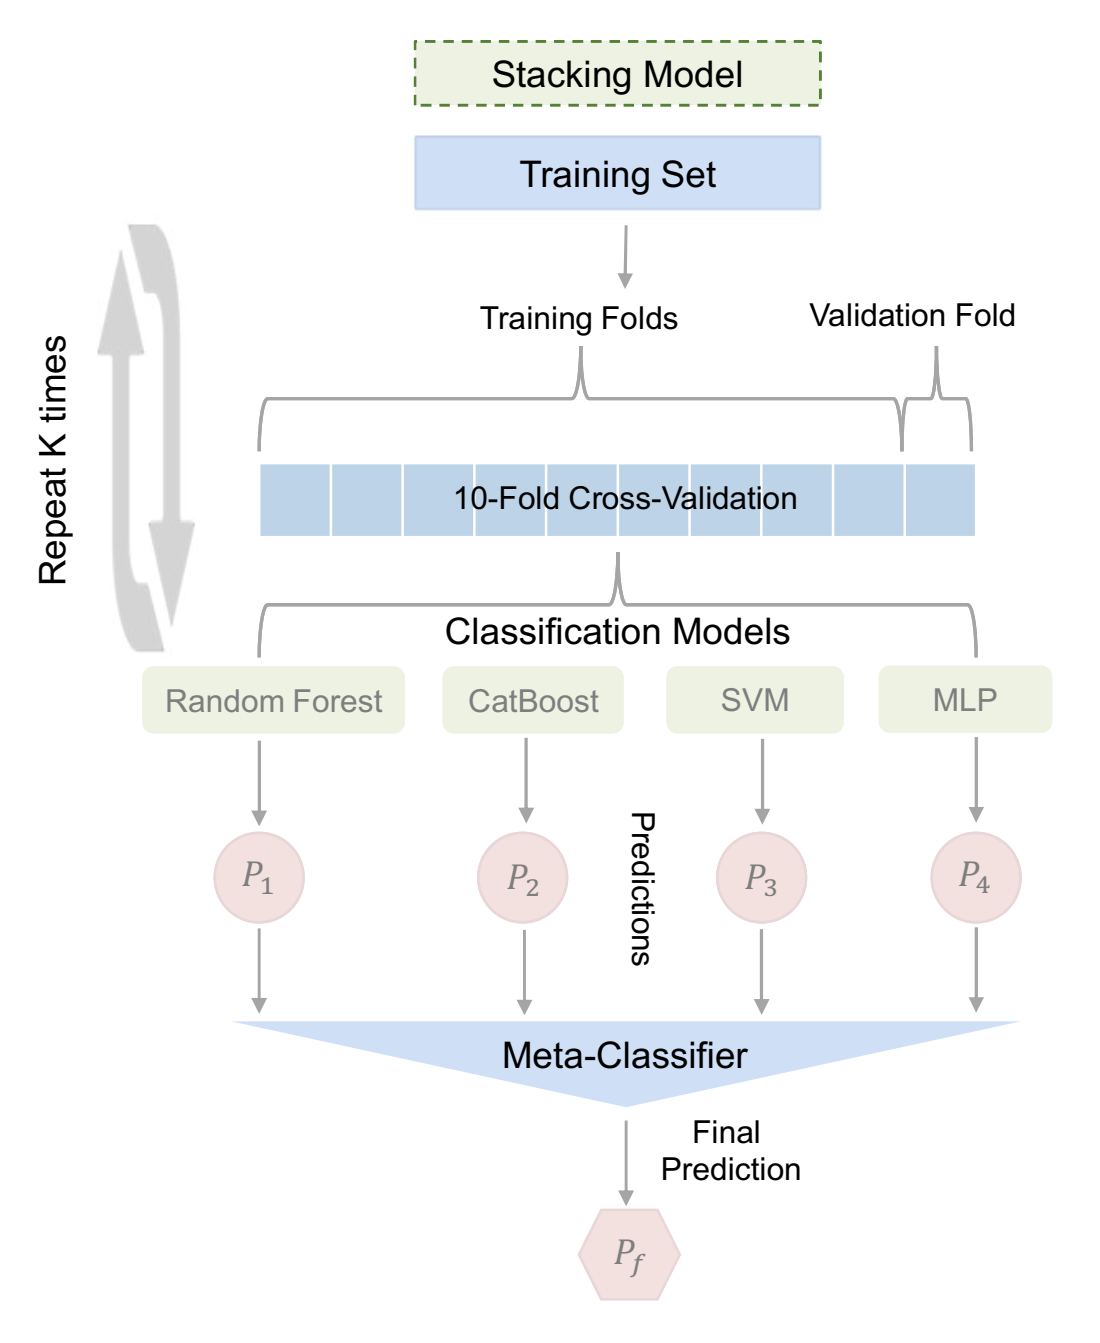
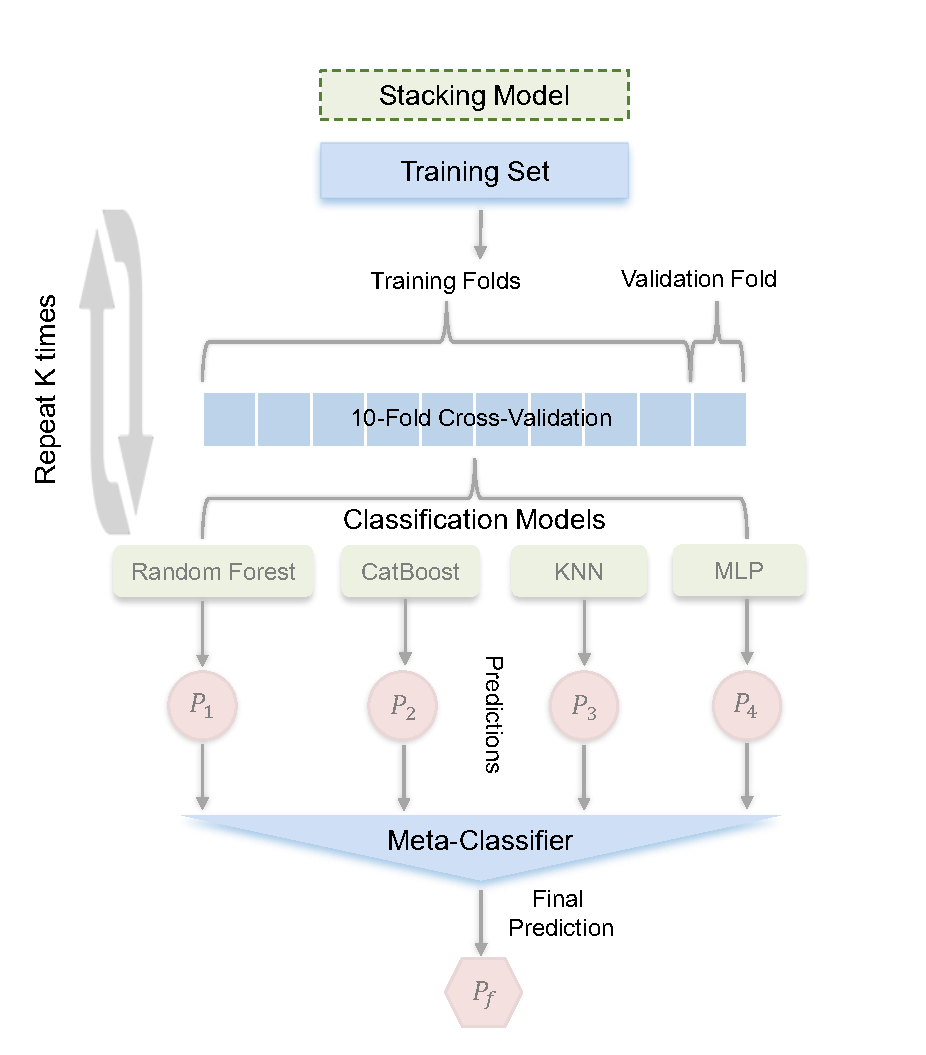
0318

Changed region(s): [[0.0907, 0.0303, 0.9676, 1.0], [0.0302, 0.2427, 0.0605, 0.455]]

diff --git a/streamlit_app.py b/streamlit_app.py
@@ -15,100 +15,148 @@ model, scaler = load_models()
 
 # Sidebar
 with st.sidebar:
+
+    st.markdown("""
+        <style>
+            /* 调整导航标题样式 */
+            .stTitle {
+                font-size: 1.8em !important;
+                margin-bottom: 25px !important;
+                color: #2c3e50 !important;
+            }
+            
+            /* 单选框容器样式 */
+            div[role="radiogroup"] {
+                gap: 15px;
+            }
+            
+            /* 单选框选项样式 */
+            .stRadio > label {
+                font-size: 1.1em !important;
+                padding: 10px 15px !important;
+                border-radius: 8px !important;
+                transition: all 0.3s ease !important;
+            }
+            
+            /* 鼠标悬停效果 */
+            .stRadio > label:hover {
+                background-color: #f5f6fa !important;
+                transform: translateX(5px);
+            }
+            
+            /* 选中状态样式 */
+            .stRadio > label[data-baseweb="radio"]:has(input:checked) {
+                background-color: #3498db !important;
+                color: white !important;
+                font-weight: 500 !important;
+            }
+        </style>
+        """, unsafe_allow_html=True)
+
     st.title("Navigation")
     page = st.radio("Page Selection",  
-                   ["App Introduction", 
-                    "Model Prediction", 
-                    "User Guide"],
-                   label_visibility="collapsed")  
-
-    st.markdown("---")
-    st.markdown("**About the Study**")
-    st.markdown("""
-    This study aims to integrate a series of physical records, biochemical tests, 
-                imaging tests and other clinical examination results during pregnancy, 
-                and on the basis of mining the key influencing factors of macrosomia, 
-                combine multiple machine learning and deep learning models, 
-                and introduce the Ensemble Learning (EL) method to establish a more objective and comprehensive, 
-                accurate and efficient prediction model of macrosomia, 
-                and overcome the low model accuracy of existing research methods.
+                   ["Introduction", 
+                    "Prediction Platform"],
+                   label_visibility="collapsed") 
     """)
+
+      # 添加间隔装饰线
+    st.markdown("---")
+    
+    # 添加辅助说明文字
+    st.markdown("<div style='font-size:0.9em; color:#7f8c8d; margin-top:30px;'></div>", 
+                unsafe_allow_html=True)
 
 # Page routing
-if page == "App Introduction":
-    st.title("Ensemble Learning-based Risk Prediction of Macrosomia Occurrence Study")
-    st.markdown("### Research Background")
+if page == "Introduction":
+    st.title("Ensemble Learning-Based Risk Prediction of Macrosomia Occurrence Study")
+    st.markdown("###About the Study")
     st.markdown("""
-        Macrosomia is one of the most common complications of pregnancy. In clinical practice, 
-        macrosomia is typically defined as a birth weight of 4000 grams or more, regardless of gestational age.
-        As a pregnancy complication, macrosomia poses significant health and life threats to both the mother and the fetus. 
-        
-        \n
-         
-        To date, the accurate diagnosis of macrosomia still relies primarily on the measurement of the infant's weight after birth. 
-        Techniques such as two-dimensional ultrasound, three-dimensional ultrasound, and magnetic resonance imaging (MRI) 
-        have limitations in accurately estimating fetal weight. Thus, effectively utilizing existing maternal examination 
-        results to accurately predict the probability of macrosomia is crucial for improving pregnancy outcomes and 
-        safeguarding the health of both mother and fetus.
+        Macrosomia, one of the most prevalent pregnancy complications, is clinically defined as neonatal birth weight ≥4000 grams irrespective of gestational age. This condition poses substantial health risks to both mothers and fetuses. 
+        The effective utilization of routine prenatal examination data for accurate macrosomia prediction holds critical significance in optimizing pregnancy outcomes and ensuring maternal-fetal health. \n
 
-        
+        This study aims to systematically integrate diverse prenatal parameters, including maternal physical examination records, biochemical test results, and ultrasound findings. Through comprehensive data mining, 
+        we intend to identify potential risk factors for macrosomia and develop an advanced prediction model by combining multiple machine learning and deep learning approaches with ensemble learning methodology. 
+        The proposed model seeks to address current limitations in prediction accuracy and model generalizability observed in existing research, ultimately establishing a more objective, comprehensive, and clinically applicable decision-support tool for macrosomia management.
+
     """)
     
-    st.markdown("### Model Architecture")
-    # st.markdown(""" """)
+    st.markdown("### Stacking Model to Predict Macrosomia Occurrence")
+    st.markdown(""" In this study, a Stacking Ensemble Model was designed to show superior performance in the task of macrosomia occurrence risk prediction. The 10-fold cross-validation results showed that the Accuracy of the model was **0.804**, the Recall was **0.813**, 
+    and the AUC was **0.891**. The following is the architecture diagram of the Stacking Ensemble Model, where four different base models were integrated in the base model layer, namely, CatBoost, RF, MLP, and KNN models. model, MLP model and KNN model are integrated, 
+    and each base model is independently parameterized by Bayesian optimization in the early stage to ensure that each base model performs optimally; the logistic regression model is chosen as the metamodel in the metamodel layer, 
+    and the probabilistic predictions of the base learners are combined to form the input features of the meta-model.""")
 
 
-    img = Image.open('Stacking.png')  
-    st.image(img, caption='Stacking Ensemble Model Structure', width=400)
-    
+    # img = Image.open('Stacking.png')  
+    # st.image(img, caption='Stacking Ensemble Model Architecture', width=350)
 
-elif page == "Model Prediction":
-    st.title("Risk Prediction Interface")
+    img = Image.open('Stacking.png')
+    st.markdown("""
+    <style>
+    .img-container {
+        display: flex;
+        justify-content: center;
+        padding: 20px 0;
+    }
+    </style>
+    """, unsafe_allow_html=True)
+
+    with st.container():
+        st.markdown('<div class="img-container">', unsafe_allow_html=True)
+        st.image(img, 
+                caption='Stacking Ensemble Model Architecture', 
+                width=350,
+                use_column_width='auto')  # 保持自动宽度响应
+        st.markdown('</div>', unsafe_allow_html=True)
+
+    st.markdown("### Introduction to the 14 input model predictors")
+    st.markdown(""" 
+    | **Maternal Characteristics** | **Metabolic and Immunologic Indicators**       | **Fetal Ultrasound**       |
+    |-------------------------------|----------------------------------------|----------------------------------------|
+    | BMI                           | Thyroid Peroxidase Antibodies (1-20w) | Placenta Thickness (25-32w)       |
+    | Pregnancy Week                | Anti-thyroid Peroxidase Antibodies(1-20w)  | Abdominal Circumference (25-32w)  |
+    | Fasting Glucose               | Max Intensity of Urine Glucose (1-32w)  | Biparietal Diameter (25-32w)         |
+    | Pregnant Woman's Parity       | Free FT4 (1-20w)                      | Femur Length (25-32w)                  |
+    |                               |                                        | Fetal Position (25-32w)               |
+    |                               |                                        | Baby Gender                           |
+    """)
+    st.markdown(""" The first eight characteristics in the table are core continuous predictors and the last six are core subtype predictors. 
+    The system consists of three dimensions: maternal characteristics, metabolic and immunologic indicators, and fetal ultrasound.""")
+
+
+elif page == "Prediction Platform":
+    st.title("Interface of Risk Prediction for Macrosomia Occurrence")
     
     # Create input columns
-    col1, col2 = st.columns(2)
+    col1, col2, col3 = st.columns(3)
 
-    feature_mapping = {
-        "BMI": "BMI",
-        "怀孕孕周": "Gestational Weeks",
-        "空腹葡萄糖": "Fasting Glucose (mmol/L)",
-        "25-32周婴儿胎盘厚": "Placental Thickness (mm)",
-        "25-32周婴儿腹围": "Abdominal Circumference (mm)",
-        "10-20周游离FT4": "Free FT4 (pmol/L)",
-        "25-32周婴儿双顶径": "Biparietal Diameter (mm)",
-        "25-32周婴儿股骨长": "Femur Length (mm)",
-        "婴儿性别": "Fetal Gender",
-        "孕妇产次": "Parity",
-        "25-32周婴儿胎位": "Fetal Position",
-        "1-20周甲状腺过氧化物酶抗体": "TPOAb (IU/mL)",
-        "1-20周抗甲状腺过氧化物酶抗体": "Anti-TPO (IU/mL)",
-        "1-32周尿葡萄糖最大阳性强度": "Urine Glucose"
-    }
-
-    # Continuous features: Using sliders for better UI
     with col1:
-        st.header("Continuous Features")
+        st.header("Maternal Characteristics")
 
         bmi = st.number_input("BMI", 15.0, 40.0, 25.0)
-        gestational_weeks = st.number_input("Gestational Weeks", 20, 42, 32)
+        gestational_weeks = st.number_input("Pregnancy Week", 20, 42, 30)
         fasting_glucose = st.number_input("Fasting Glucose (mmol/L)", 3.0, 10.0, 5.0)
-        placental_thickness = st.number_input("Placental Thickness (mm)", 10.0, 50.0, 25.0)
-        abdominal_circumference = st.number_input("Abdominal Circumference (mm)", 200.0, 400.0, 300.0)
-        ft4 = st.number_input("Free FT4 (pmol/L)", 5.0, 20.0, 12.0)
-        biparietal_diameter = st.number_input("Biparietal Diameter (mm)", 100.0, 500.0, 300.0)
-        femur_length = st.number_input("Femur Length (mm)", 100.0, 500.0, 300.0)
-
-# 分类变量
+        parity = st.selectbox("Pregnant Woman's Parity", [0, 1, 2, 3], index=0)
         
     with col2:
-        st.header("Categorical Features")
+        st.header("Metabolic and Immunologic Indicators")
+
+        TPOAb = st.selectbox("Thyroid Peroxidase Antibodies", ["Negative", "Positive"], index=0)
+        anti_tpo = st.selectbox("Anti-thyroid Peroxidase Antibodies", ["Negative", "Positive"], index=0)
+        urine_glucose = st.selectbox("Max Intensity of Urine Glucose", ["Negative", "+", "++", "+++", "++++"], index=0)
+        ft4 = st.number_input("Free FT4 (pmol/L)", 5.0, 20.0, 12.0)
         
-        gender = st.selectbox("Fetal Gender", ["Male", "Female"], index=0)
-        parity = st.selectbox("Parity", [0, 1, 2, 3], index=0)
+    
+    with col3:
+        st.header("Fetal Ultrasound")
+        placental_thickness = st.number_input("Placental Thickness (mm)", 10.0, 50.0, 25.0)
+        abdominal_circumference = st.number_input("Abdominal Circumference (mm)", 200.0, 400.0, 300.0)
+        biparietal_diameter = st.number_input("Biparietal Diameter (mm)", 100.0, 500.0, 300.0)
+        femur_length = st.number_input("Femur Length (mm)", 100.0, 500.0, 300.0)
         fetal_position = st.selectbox("Fetal Position", ["Cephalic", "Non-Cephalic"], index=0)
-        TPOAb = st.selectbox("TPOAb (IU/mL)", ["Negative", "Positive"], index=0)
-        anti_tpo = st.selectbox("Anti-TPO (IU/mL)", ["Negative", "Positive"], index=0)
-        urine_glucose = st.selectbox("Urine Glucose", ["Negative", "+", "++", "+++", "++++"], index=0)
+        gender = st.selectbox("Baby Gender", ["Male", "Female"], index=0)
+        
     
     gender_map = {"Male": 0, "Female": 1}
     fetal_position_map = {"Cephalic": 0, "Non-Cephalic": 1}
@@ -185,36 +233,15 @@ elif page == "Model Prediction":
                 
             st.markdown("---")
             if risk_prob > 0.7:
-                st.error("🚨 High Risk: Recommend clinical consultation and further monitoring. Further tests such as XYZ may be required.")
+                st.error("🚨 High Risk: Recommend clinical consultation and further monitoring.")
             elif risk_prob > 0.4:
-                st.warning("⚠ Moderate Risk: Suggest increased monitoring frequency, and consider additional tests like ABC.")
+                st.warning("⚠ Moderate Risk: Suggest increased monitoring frequency, and consider additional clinical examinations.")
             else:
                 st.success("✅ Low Risk: Maintain routine prenatal care. Regular check-ups are recommended.")
 
         except Exception as e:
             st.error(f"Error in prediction: {str(e)}")
 
-elif page == "User Guide":
-    st.title("How to use this Macrosomia Predictive System ")
-
-    
-    st.markdown("### 📋 Input Guidelines")
-    st.markdown("""
-    1. **Continuous Parameters**  
-    - Obtain from clinical measurements  
-    - Input exact numerical values
-    
-    2. **Categorical Parameters**  
-    - Select from standardized clinical reports  
-    - Use most recent measurement values
-    """)
-    
-    st.markdown("### ⚠ Precautions")
-    st.markdown("""
-    - All data should be collected before 32 weeks gestation
-    - Measurement methods must follow standard protocols
-    - Results should be interpreted by qualified clinicians
-    """)
 
 # Add footer
 st.markdown("---")
